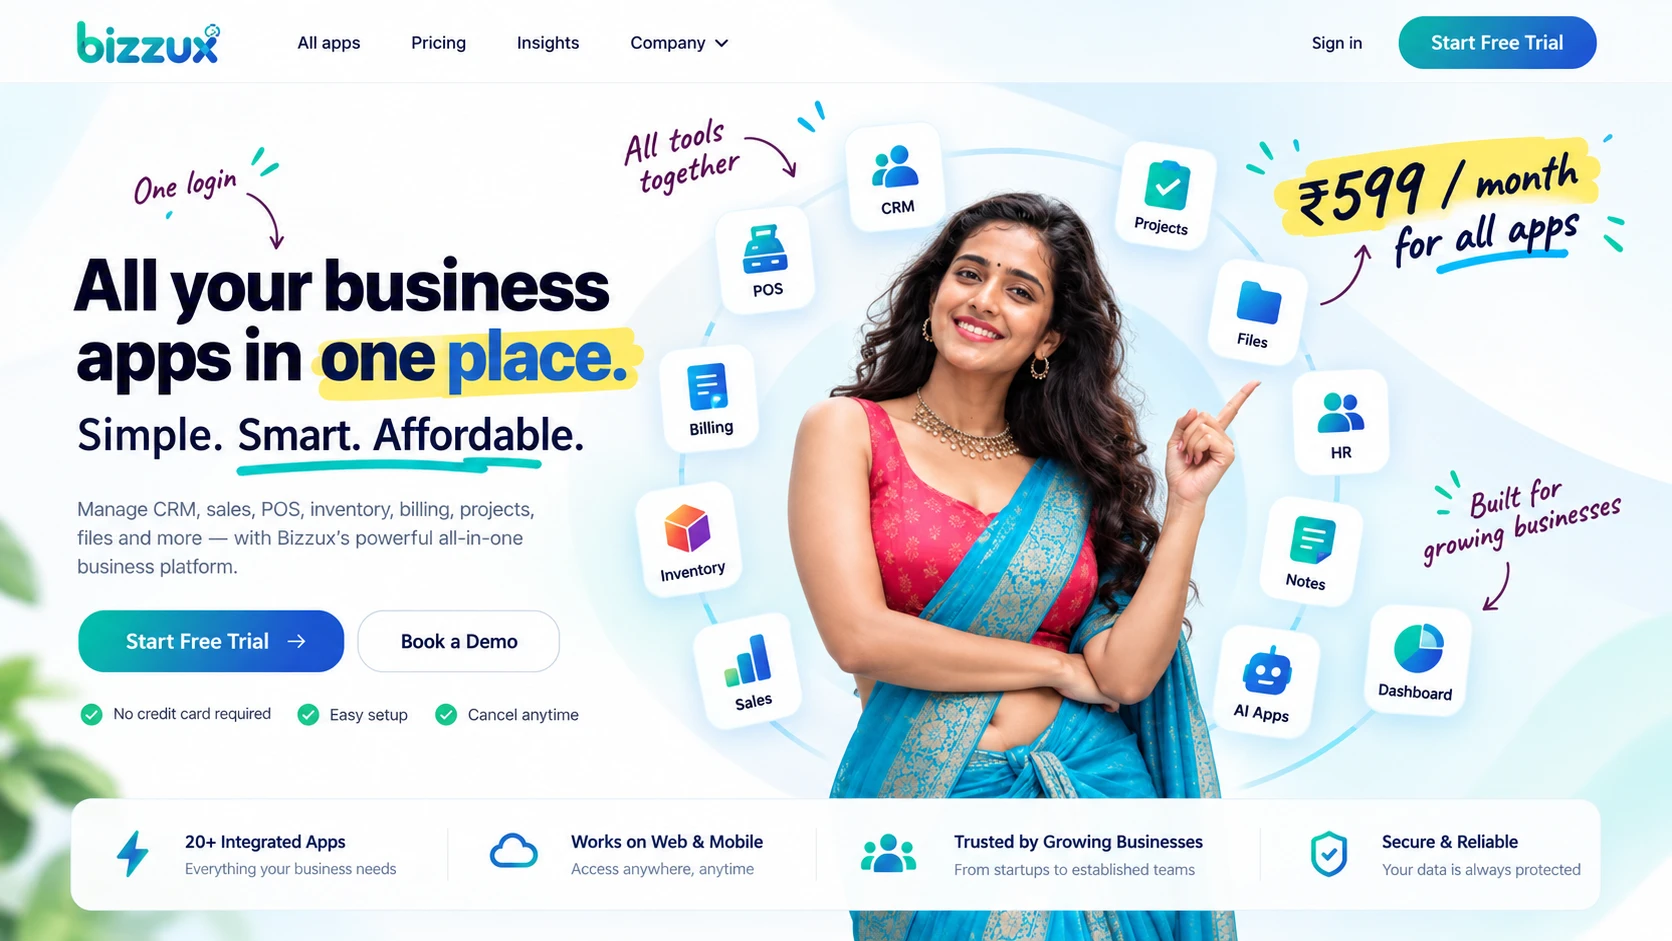
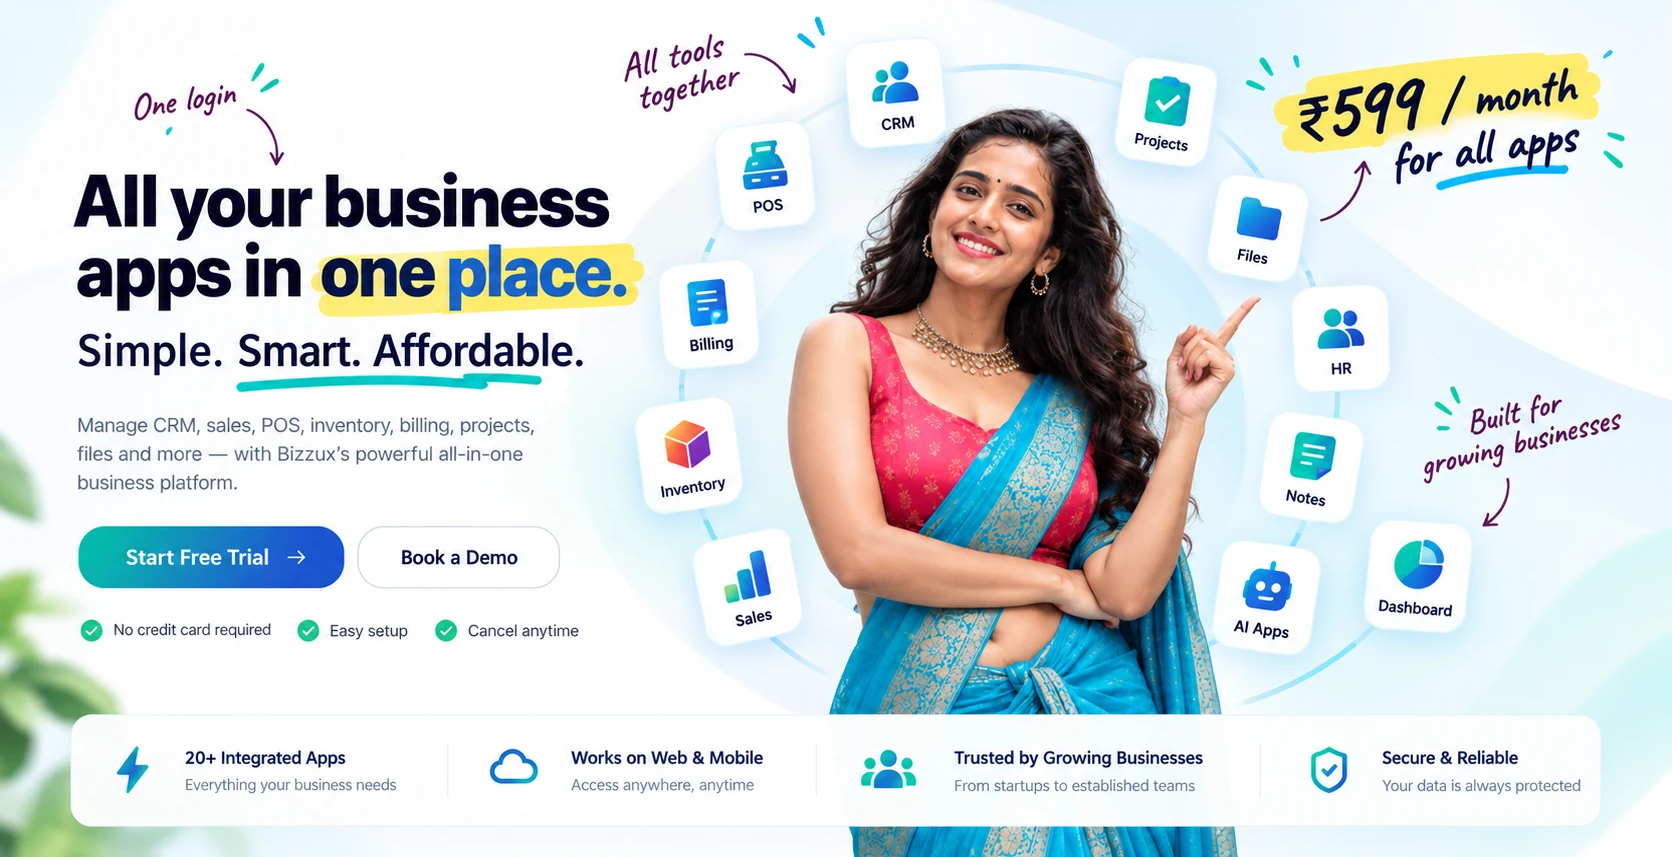
Homepage hero: crop baked-in nav bar off the design image

diff --git a/app/(marketing)/page.tsx b/app/(marketing)/page.tsx
@@ -66,20 +66,20 @@ export default async function Home() {
             src="/images/hero-original.webp"
             alt="Bizzux: all your business apps in one place. Simple. Smart. Affordable. ₹599 / month for all apps."
             width={1672}
-            height={941}
+            height={857}
             className="block w-full h-auto"
           />
           <a
             href="/sign-in?mode=signup"
             aria-label="Start Free Trial"
             className="absolute"
-            style={{ left: "4.67%", top: "64.8%", width: "15.9%", height: "6.6%" }}
+            style={{ left: "4.67%", top: "61.4%", width: "15.9%", height: "7.2%" }}
           />
           <a
             href="/contact"
             aria-label="Book a Demo"
             className="absolute"
-            style={{ left: "21.4%", top: "64.8%", width: "12.1%", height: "6.6%" }}
+            style={{ left: "21.4%", top: "61.4%", width: "12.1%", height: "7.2%" }}
           />
         </div>
       </section>
